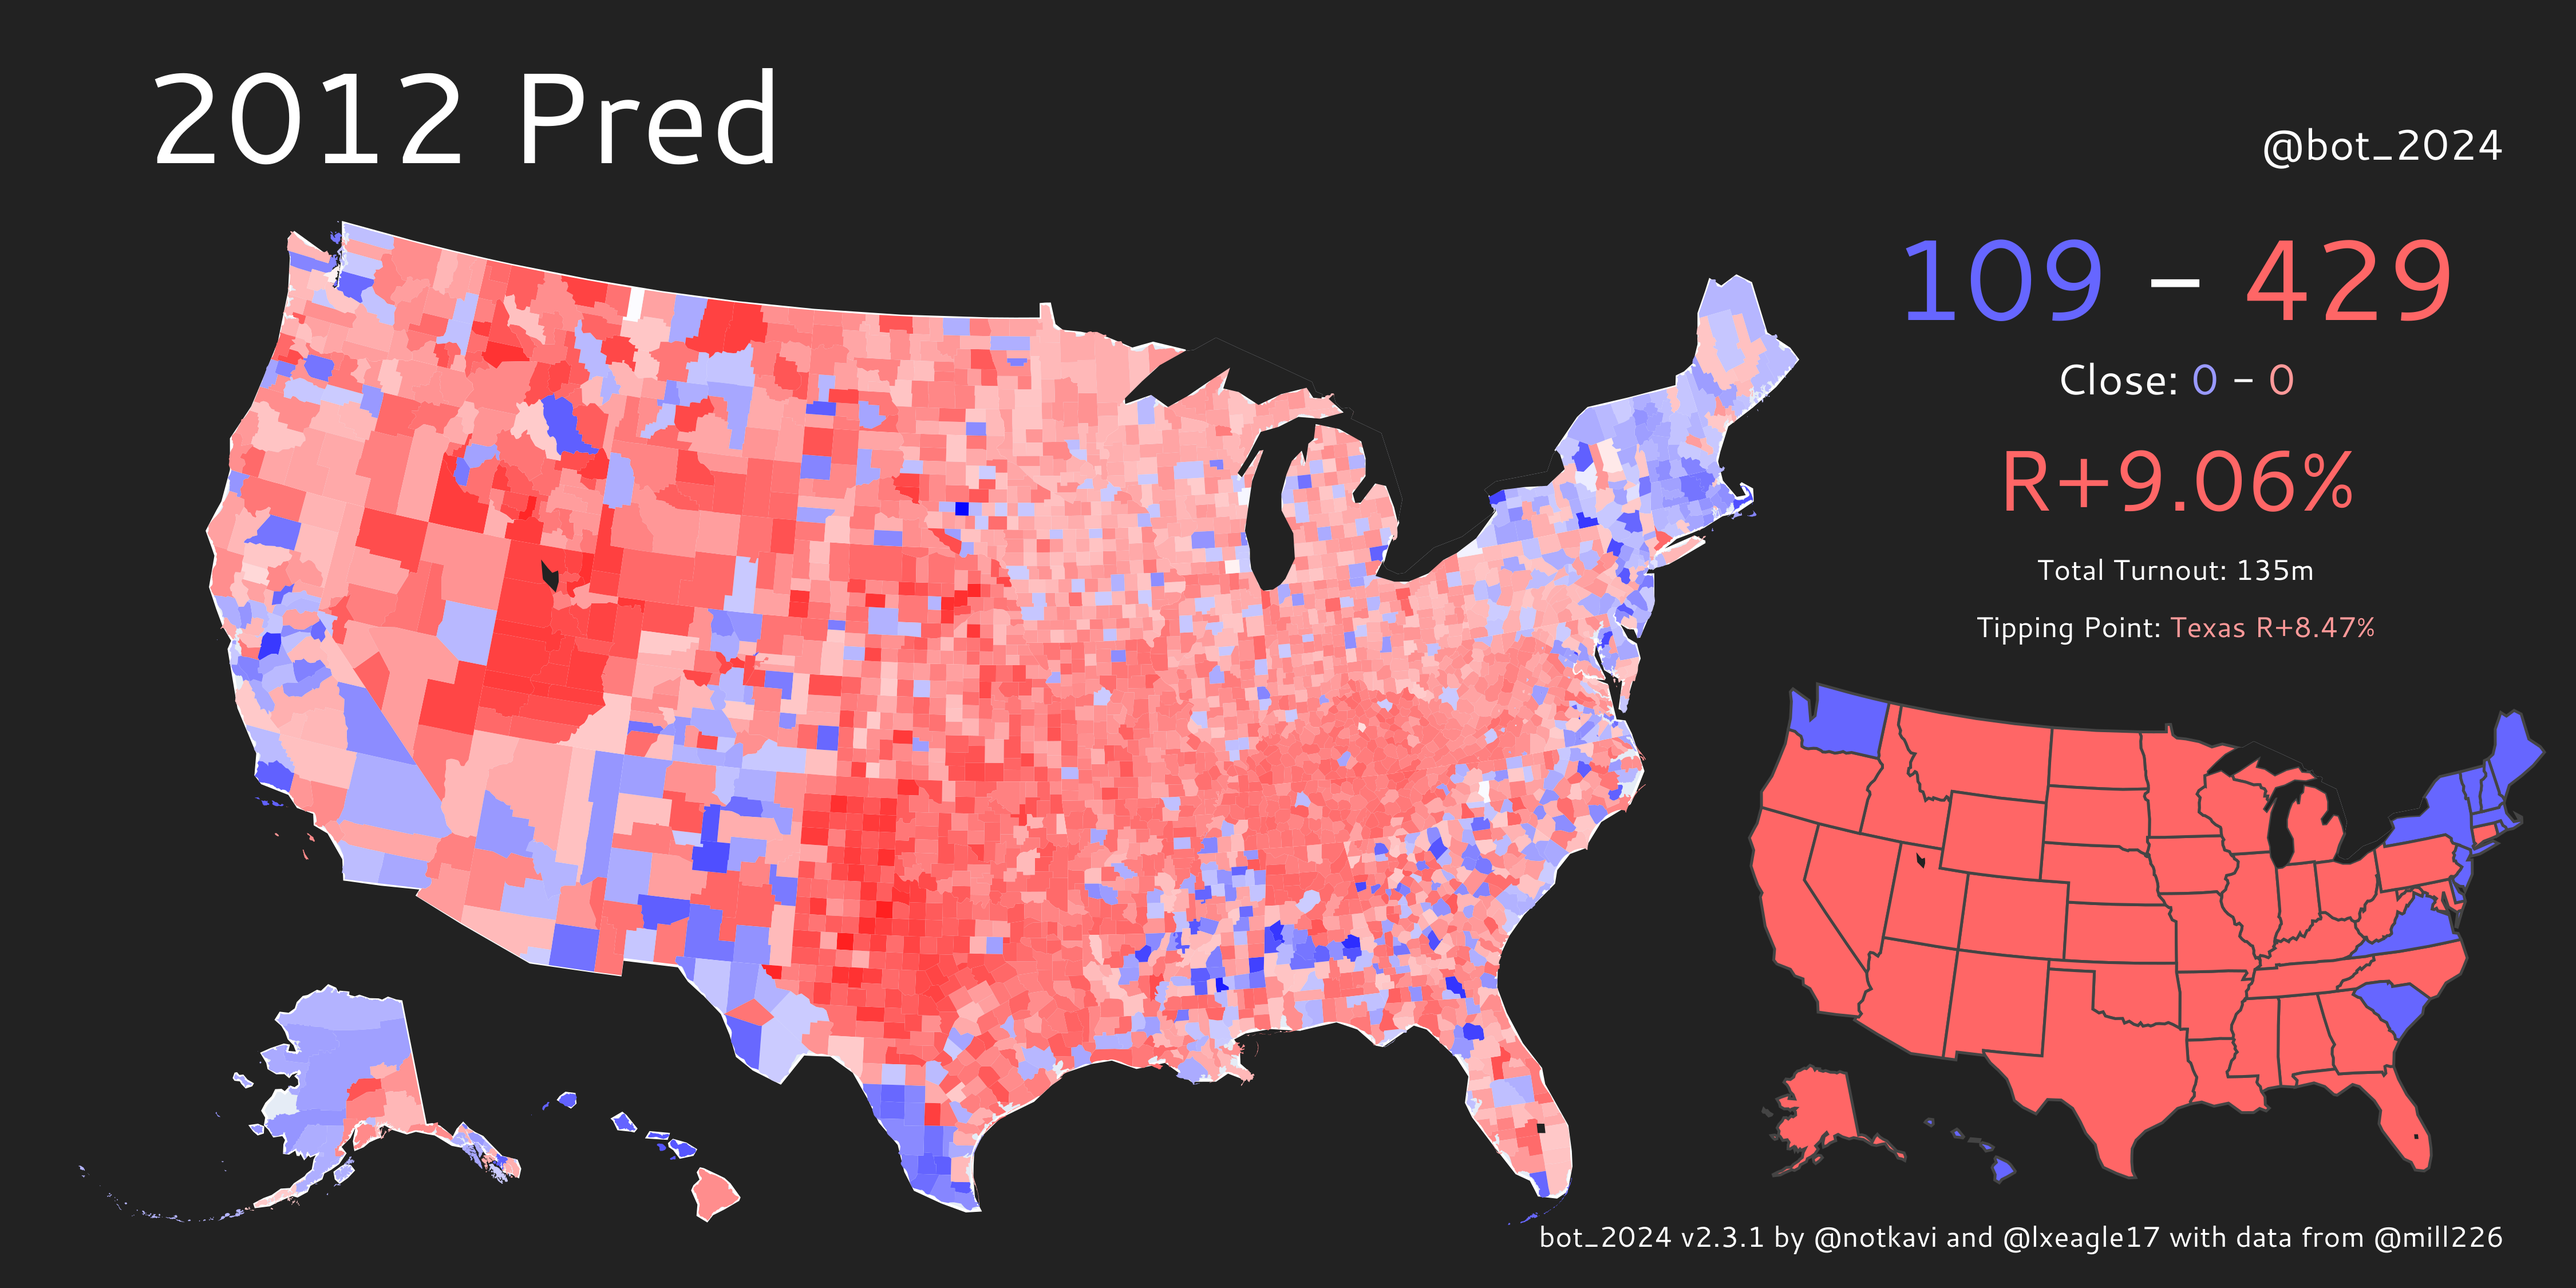
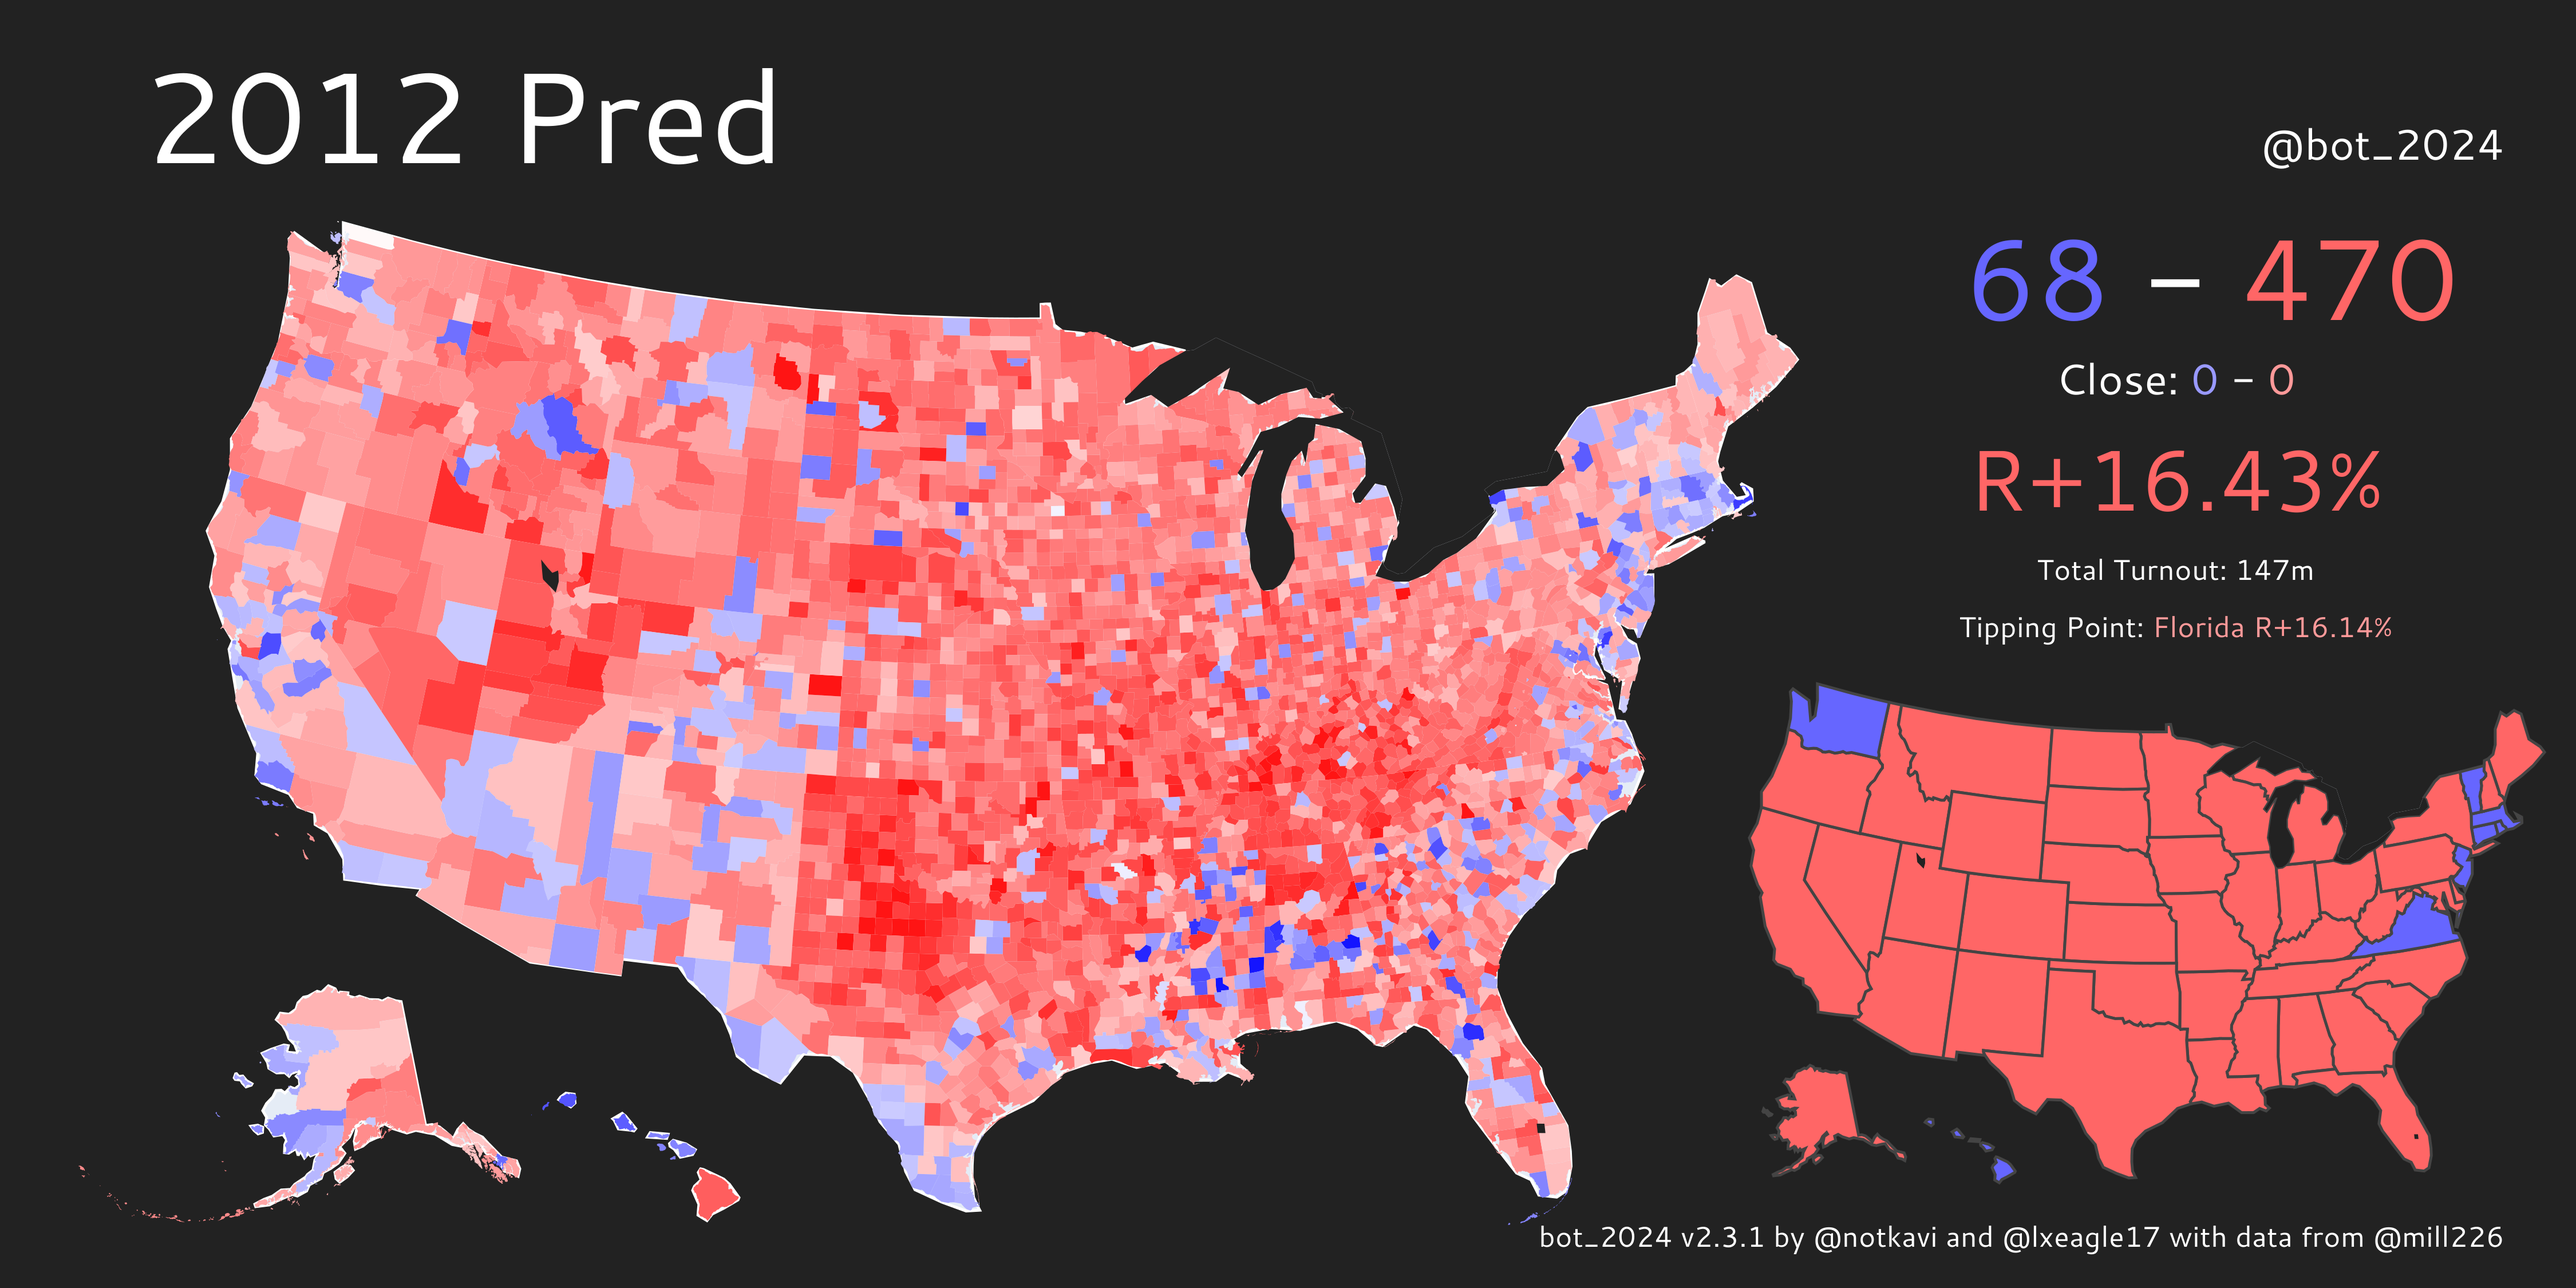
switch back to using the linear model for now -- just to audit the data

diff --git a/mapmaker/generate_image.py b/mapmaker/generate_image.py
@@ -3,7 +3,7 @@ import functools
 import pickle
 
 from .data import data_by_year
-from .torch_model import DemographicCategoryModel
+from .linear_model import LinearMixtureModel
 from .version import version
 from .calibrator import calibrate
 
@@ -14,7 +14,7 @@ IMAGE_FOLDER = os.path.join(
 
 @functools.lru_cache(None)
 def get_model(calibrated=False, *, dimensions=19):
-    model = DemographicCategoryModel(
+    model = LinearMixtureModel(
         data_by_year(), feature_kwargs=dict(dimensions=dimensions)
     )
     if calibrated:

diff --git a/generate_examples.py b/generate_examples.py
@@ -3,12 +3,12 @@ import tqdm
 from mapmaker.generate_image import get_model, get_image
 
 model = get_model(calibrated=False)
-# model.sample_map(
-#     "2020 Actual",
-#     seed=None,
-#     path="images/2020_actual.svg",
-#     year=2020,
-# )
+model.sample_map(
+    "2020 Actual",
+    seed=None,
+    path="images/2020_actual.svg",
+    year=2020,
+)
 model.sample_map(
     "2012 Pred",
     seed=None,
